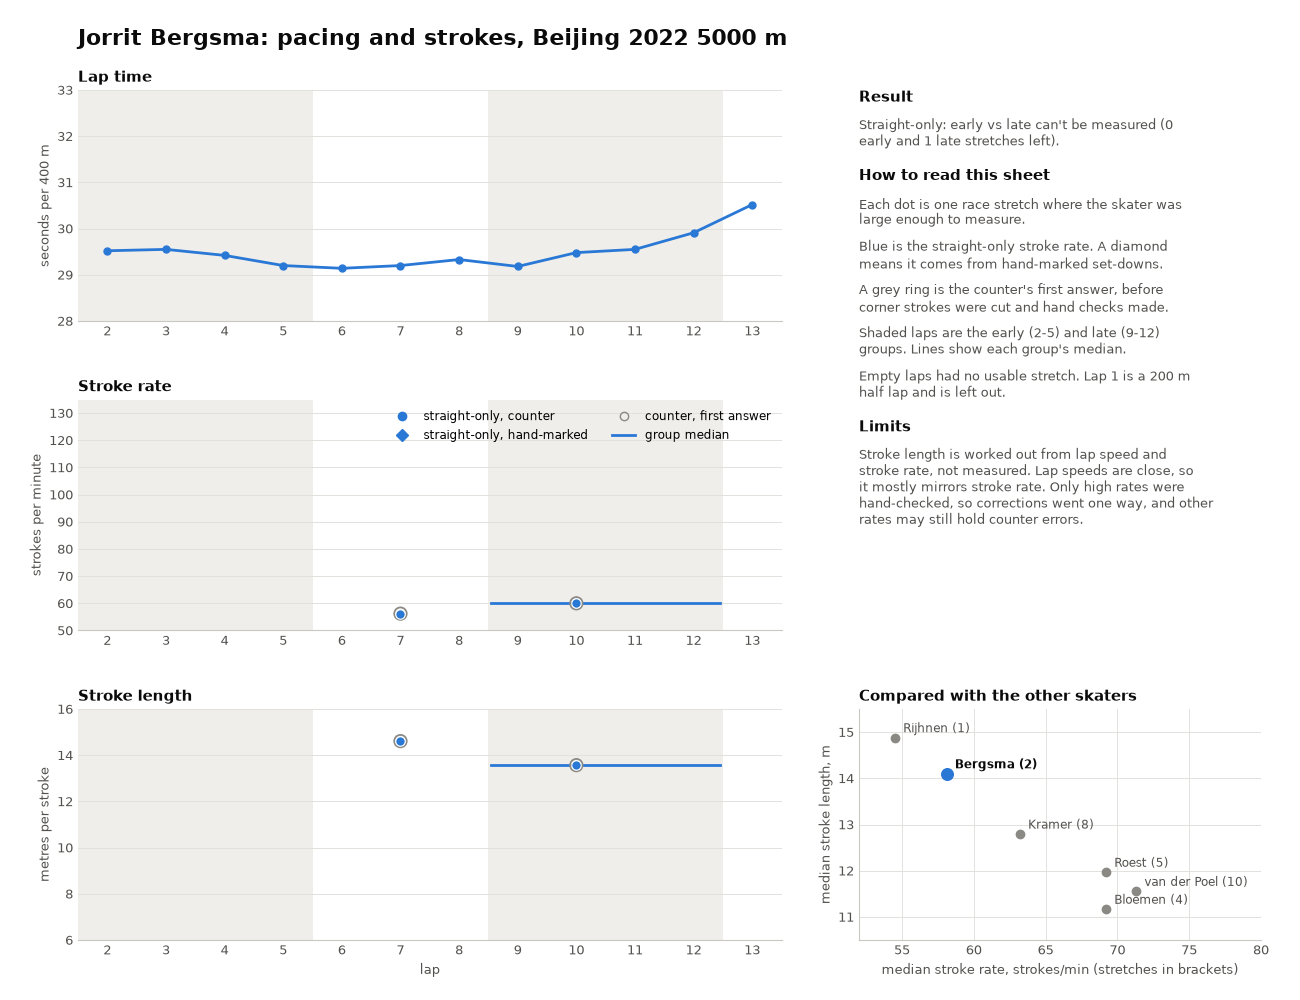
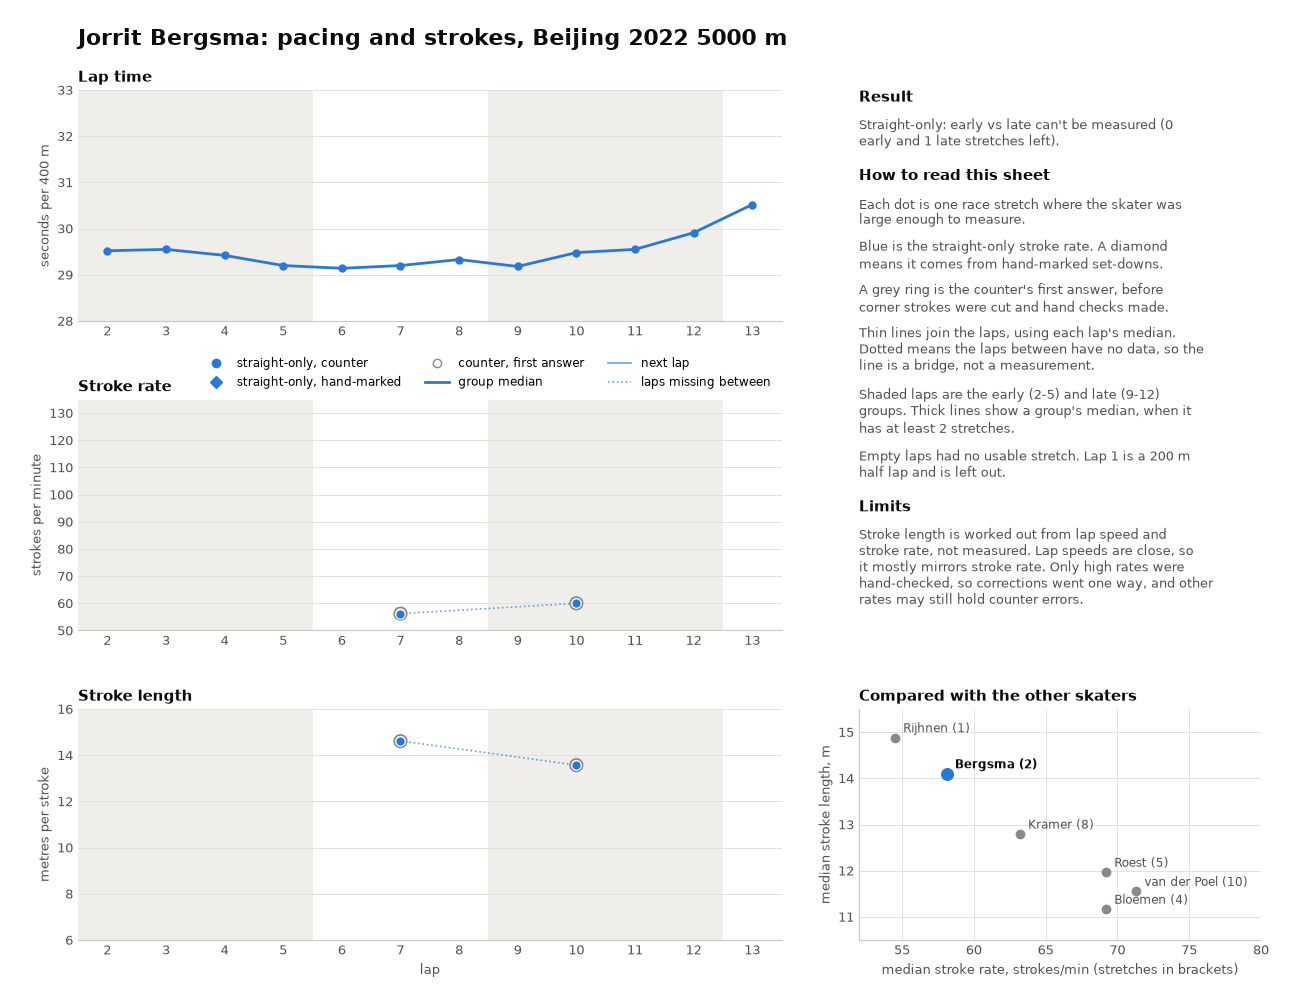
11/5: pacing sheets reviewed (laps joined, dotted across gaps), Phase 8 summary finished, Phase 8 complete; hours (120.0), journal, Phase 8 capabilities, README, milestones

diff --git a/pacing_sheets.py b/pacing_sheets.py
@@ -35,7 +35,8 @@ HOW_TO_READ = [
     "Each dot is one race stretch where the skater was large enough to measure.",
     "Blue is the straight-only stroke rate. A diamond means it comes from hand-marked set-downs.",
     "A grey ring is the counter's first answer, before corner strokes were cut and hand checks made.",
-    "Shaded laps are the early (2-5) and late (9-12) groups. Lines show each group's median.",
+    "Thin lines join the laps, using each lap's median. Dotted means the laps between have no data, so the line is a bridge, not a measurement.",
+    "Shaded laps are the early (2-5) and late (9-12) groups. Thick lines show a group's median, when it has at least 2 stretches.",
     "Empty laps had no usable stretch. Lap 1 is a 200 m half lap and is left out.",
 ]
 LIMITS = ("Stroke length is worked out from lap speed and stroke rate, not measured. Lap speeds are close, so it mostly "
@@ -59,7 +60,7 @@ def result_lines(s, skater):
     out = []
     if pd.notna(st.early_spm) and pd.notna(st.late_spm):
         word = "past" if st.rate_real else "not past"
-        out.append(f"Straight-only: {st.early_spm:.1f} to {st.late_spm:.1f} strokes/min ({st.rate_change:+.1%}), {word} the 10% bar. "
+        out.append(f"Straight-only: {st.early_spm + 1e-9:.1f} to {st.late_spm + 1e-9:.1f} strokes/min ({st.rate_change:+.1%}), {word} the 10% bar. "
                    f"Stroke length {st.len_change:+.1%}.")
     else:
         out.append("Straight-only: early vs late can't be measured "
@@ -73,8 +74,15 @@ def result_lines(s, skater):
 def group_medians(ax, d, col):
     for laps in (EARLY, LATE):
         g = d[d.lap.isin(laps)][col]
-        if len(g):
+        if len(g) >= 2:
             ax.plot([laps[0] - 0.45, laps[-1] + 0.45], [g.median()] * 2, color=MAIN, lw=2, zorder=2)
+
+
+def lap_line(ax, d, col):
+    """Lap medians joined: solid between neighbouring laps, dotted across laps with no data."""
+    m = d.groupby("lap")[col].median()
+    for (a, ya), (b, yb) in zip(m.items(), list(m.items())[1:]):
+        ax.plot([a, b], [ya, yb], color=MAIN, lw=1.2, alpha=0.7, ls="-" if b - a == 1 else ":", zorder=2)
 
 
 def base(ax, title, ylim, unit):
@@ -95,6 +103,7 @@ def strokes(ax, d, col, ring):
     for hand, marker in ((False, "o"), (True, "D")):
         g = d[d.hand == hand]
         ax.scatter(g.lap, g[col], s=46, marker=marker, color=MAIN, edgecolors="white", linewidths=0.8, zorder=4)
+    lap_line(ax, d, col)
     group_medians(ax, d, col)
 
 
@@ -118,8 +127,10 @@ def sheet(skater, r, laps, s, pos):
     ax.legend(handles=[Line2D([], [], marker="o", ls="", color=MAIN, label="straight-only, counter"),
                        Line2D([], [], marker="D", ls="", color=MAIN, label="straight-only, hand-marked"),
                        Line2D([], [], marker="o", ls="", mfc="none", mec=GREY, label="counter, first answer"),
-                       Line2D([], [], color=MAIN, lw=2, label="group median")],
-              loc="upper right", ncol=2, fontsize=8.5, frameon=False)
+                       Line2D([], [], color=MAIN, lw=2, label="group median"),
+                       Line2D([], [], color=MAIN, lw=1.2, alpha=0.7, label="next lap"),
+                       Line2D([], [], color=MAIN, lw=1.2, alpha=0.7, ls=":", label="laps missing between")],
+              loc="lower right", bbox_to_anchor=(1, 1), ncol=3, fontsize=8.5, frameon=False)
     ax = fig.add_subplot(gs[2, 0]); base(ax, "Stroke length", LEN_LIM, "metres per stroke")
     strokes(ax, d, "length", ring)
     ax.set_xlabel("lap", fontsize=9, color=MUTED)

diff --git a/README.md b/README.md
@@ -108,10 +108,11 @@ Controlled fixed-camera footage, multi-camera 3D and inline skating remain futur
 - **Visual comparison tool (7d):** `doublepush_compare.py` shows a skater's measured double push (where the recovering foot lands, how far the foot comes under the body, hip movement) beside an elite example, with plain-language explanations and coaching cues; the skater or coach makes the judgement. Summary in `docs/PHASE7_SUMMARY.md`.
 - Side track: controlled ice footage with a real fatigue measure. Full detail in `docs/CAPABILITIES_PHASE7.md`.
 
-### Phase 8: Stroke Rate & Pacing in Long Track Races (In Progress, 10/28–)
+### Phase 8: Stroke Rate & Pacing in Long Track Races (Complete, 10/28–11/5)
 > *To what extent can single-camera pose estimation count a long track skater's strokes reliably enough to measure stroke rate and stroke length lap by lap, and how do they change across a race and between faster and slower skaters?*
 
 - **Plan (10/28):** count strokes on whole-race broadcasts (Phase 6 pure pieces and corner/straight detection, Phase 7 touchdown signal), take speed from lap times (read from the broadcast race clock), and compare stroke rate and stroke length across laps and between skaters. Stroke-count test clips (21 Beijing 2022 straightaways, 10 held out by skater) marked by hand. Stroke counter (feet furthest apart sideways, `stroke_counter.py`) tested once: 84.2% of set-downs found within 0.1 s on normal-size test clips (target 85% not met, by one set-down); stroke counts matched on 6 of 7 clips; small skaters not countable reliably. Lap times for six skaters read from the broadcast's split graphic (78 laps, all checked). Stroke-rate rules fixed before any race results; all 133 race stretches labelled. Six-skater result (11/1): no general claim (stroke rate fell late for 3 skaters, rose for 2; 4 of 6 needed); Bloemen's fall past the 10% bar; hand checks found the counter double-counting on some stretches and corner-exit crossovers inside stretches labelled straight. A second analysis on straight strokes only (11/3, updated 11/4) left 3 skaters measurable, none past the bar, and did not confirm the earlier falls. Pacing sheets per skater in `reports/pacing/`. Full detail in `docs/CAPABILITIES_PHASE8.md`.
+- **Result (11/5):** the counter works on clean straightaway clips but cannot give trustworthy lap-by-lap stroke rates from race broadcasts without hand checking; no general claim about stroke rate across a race; lap times read from the broadcast held up well and show pacing clearly. Pacing sheets in `reports/pacing/`, summary in `docs/PHASE8_SUMMARY.md`.
 ---
 
 ## 📊 Verified Pipeline & Dashboard Capabilities
@@ -171,7 +172,7 @@ All tracking documents live in `docs/`:
 
 * **`JOURNAL.md`**, **`HOURS.md`**: daily engineering log and time tracking, with a 9/12 correction pass on earlier entries
 * **`CAPABILITIES_PHASE1.md`** through **`CAPABILITIES_PHASE8.md`**: verified capability logs per phase
-* **`PHASE1_SUMMARY.md`** through **`PHASE7_SUMMARY.md`**: honest, narrative research conclusions per phase
+* **`PHASE1_SUMMARY.md`** through **`PHASE8_SUMMARY.md`**: honest, narrative research conclusions per phase
 * **`MARKING_PLAYER.md`**: the hand-marking player (`mark_setdowns.py`): why it exists, how it works, keys and marking rules
 * **`MILESTONES.md`**: high-level milestone summary
 * **`FIXES.md`**: consolidated correction/retraction log

diff --git a/docs/README.md b/docs/README.md
@@ -108,10 +108,11 @@ Controlled fixed-camera footage, multi-camera 3D and inline skating remain futur
 - **Visual comparison tool (7d):** `doublepush_compare.py` shows a skater's measured double push (where the recovering foot lands, how far the foot comes under the body, hip movement) beside an elite example, with plain-language explanations and coaching cues; the skater or coach makes the judgement. Summary in `docs/PHASE7_SUMMARY.md`.
 - Side track: controlled ice footage with a real fatigue measure. Full detail in `docs/CAPABILITIES_PHASE7.md`.
 
-### Phase 8: Stroke Rate & Pacing in Long Track Races (In Progress, 10/28–)
+### Phase 8: Stroke Rate & Pacing in Long Track Races (Complete, 10/28–11/5)
 > *To what extent can single-camera pose estimation count a long track skater's strokes reliably enough to measure stroke rate and stroke length lap by lap, and how do they change across a race and between faster and slower skaters?*
 
 - **Plan (10/28):** count strokes on whole-race broadcasts (Phase 6 pure pieces and corner/straight detection, Phase 7 touchdown signal), take speed from lap times (read from the broadcast race clock), and compare stroke rate and stroke length across laps and between skaters. Stroke-count test clips (21 Beijing 2022 straightaways, 10 held out by skater) marked by hand. Stroke counter (feet furthest apart sideways, `stroke_counter.py`) tested once: 84.2% of set-downs found within 0.1 s on normal-size test clips (target 85% not met, by one set-down); stroke counts matched on 6 of 7 clips; small skaters not countable reliably. Lap times for six skaters read from the broadcast's split graphic (78 laps, all checked). Stroke-rate rules fixed before any race results; all 133 race stretches labelled. Six-skater result (11/1): no general claim (stroke rate fell late for 3 skaters, rose for 2; 4 of 6 needed); Bloemen's fall past the 10% bar; hand checks found the counter double-counting on some stretches and corner-exit crossovers inside stretches labelled straight. A second analysis on straight strokes only (11/3, updated 11/4) left 3 skaters measurable, none past the bar, and did not confirm the earlier falls. Pacing sheets per skater in `reports/pacing/`. Full detail in `docs/CAPABILITIES_PHASE8.md`.
+- **Result (11/5):** the counter works on clean straightaway clips but cannot give trustworthy lap-by-lap stroke rates from race broadcasts without hand checking; no general claim about stroke rate across a race; lap times read from the broadcast held up well and show pacing clearly. Pacing sheets in `reports/pacing/`, summary in `docs/PHASE8_SUMMARY.md`.
 ---
 
 ## 📊 Verified Pipeline & Dashboard Capabilities
@@ -171,7 +172,7 @@ All tracking documents live in `docs/`:
 
 * **`JOURNAL.md`**, **`HOURS.md`**: daily engineering log and time tracking, with a 9/12 correction pass on earlier entries
 * **`CAPABILITIES_PHASE1.md`** through **`CAPABILITIES_PHASE8.md`**: verified capability logs per phase
-* **`PHASE1_SUMMARY.md`** through **`PHASE7_SUMMARY.md`**: honest, narrative research conclusions per phase
+* **`PHASE1_SUMMARY.md`** through **`PHASE8_SUMMARY.md`**: honest, narrative research conclusions per phase
 * **`MARKING_PLAYER.md`**: the hand-marking player (`mark_setdowns.py`): why it exists, how it works, keys and marking rules
 * **`MILESTONES.md`**: high-level milestone summary
 * **`FIXES.md`**: consolidated correction/retraction log

diff --git a/docs/MILESTONES.md b/docs/MILESTONES.md
@@ -69,12 +69,14 @@
 * **Detection (7c):** three tests with a fixed 85% target: 77.8%, 72.2%, 60.9%; the best is about 3 in 4 on skaters it wasn't set on.
 * **Feedback (7d):** an automatic judge failed (missed real flaws, flagged elite style differences); a visual comparison tool with explanations and coaching cues was built instead.
 
-## Phase 8: Stroke Rate & Pacing in Long Track Races (In Progress, 10/28–)
+## Phase 8: Stroke Rate & Pacing in Long Track Races (Complete, 10/28–11/5)
 *Research Question: To what extent can single-camera pose estimation count a long track skater's strokes reliably enough to measure stroke rate and stroke length lap by lap, and how do they change across a race and between faster and slower skaters?*
 
 * **Plan (10/28):** stroke counting on race broadcasts, speed from lap times; stroke-count test clips made (21 Beijing 2022 straightaways, 10 held out by skater), target set before testing.
 * **Stroke counter (8c):** 84.2% of hand-marked set-downs found within 0.1 s on skaters it wasn't set on (target 85% not met, by one set-down); stroke counts matched on 6 of 7 clips.
 * **Lap times (8a):** read from the broadcast's split graphic for six skaters (78 laps, all checked); pacing ranges from even (van der Poel) to a large fade (Bloemen).
+* **Race stroke rates (8d):** no general claim under rules fixed beforehand; hand checks found counter over-counting and corner crossovers in the high rates; on straight strokes only, 3 skaters measurable, none past the 10% bar.
+* **Pacing sheets (8e):** lap time, stroke rate and stroke length by lap for each skater.
 
 ## 🎯 Where the Project Actually Stands (as of 10/7)
 * **Phase 1:** Completed. *Correction (10/7):* the saved Phase 1 model was later found collapsed (identical output for any input); see Phase 5.
@@ -84,4 +86,4 @@
 * **Phase 5:** Complete: elite reference well calibrated; late-race trunk-asymmetry lead found (8 of 9 skaters) but not confirmable on broadcast footage once camera shot is controlled; dashboard rebuilt on measured values. See `docs/PHASE5_SUMMARY.md`.
 * **Phase 6:** Complete: two skaters kept apart reliably enough to recover footage, but it is mostly front-on late in races; corner/straight detection 81.7%; 3D pose removes most of the camera effect and with it most of the Phase 5 fatigue lead. See `docs/PHASE6_SUMMARY.md`.
 * **Phase 7:** Complete: feet tracked on full-body footage (98%); double-push detection about 3 in 4 on other skaters (target 85% not met, three tests); automatic feedback not reliable; a visual comparison tool shows a skater's double push beside an elite example. See `docs/PHASE7_SUMMARY.md`.
-* **Phase 8:** In progress: stroke rate and pacing in long track races; stroke counter 84.2% (target 85% not met). See `docs/CAPABILITIES_PHASE8.md`.
+* **Phase 8:** Complete: stroke counter 84.2% on clean clips (target 85% not met), but not reliable on race broadcasts without hand checking; no general claim about stroke rate across a race; broadcast lap times held up well. See `docs/PHASE8_SUMMARY.md`.

diff --git a/docs/HOURS.md b/docs/HOURS.md
@@ -79,4 +79,5 @@
 | **11/1** | Labelled the last two skaters' race stretches (Bergsma, Rijhnen; all 133 labelled) and ran the six-skater stroke-rate comparison under the rules fixed beforehand: no general claim (3 skaters slower late, 2 faster; 4 of 6 needed), Bloemen the only skater past the 10% bar with the counter alone. Hand-checked five stretches with implausibly high rates (added after seeing the result): two were the counter double-counting, and three included corner-exit crossovers that the thumbnail labels had called straightaway, an error source the 8c test never measured. With the hand checks, van der Poel also passes the bar (-11%), reported as not settled. | 1.0 hr |
 | **11/3** | Ran a second stroke-rate analysis on straight strokes only, with its rules fixed first: marked where each of the 37 race stretches with a rate is really straight (lap hidden, clips shuffled), using a new mode of the marking player. 14 stretches had corner frames cut, nearly all at the start. All rates above 100 strokes/min disappeared. Only three skaters stayed measurable (Kramer +9.3%, Roest +8.9%, van der Poel +6.2%), none past the 10% bar, so there is still no general claim; the earlier falls for Bloemen and van der Poel were not confirmed. | 0.5 hrs |
 | **11/4** | Hand-checked the last two high stroke rates (van der Poel 90/min was really 64, Bloemen 86/min was really 62): the counter over-counted on 4 of 7 checked stretches, and van der Poel's straight-only change went to 0.0%. Built the 8e pacing sheets (lap time, stroke rate and stroke length by lap for each skater, with a comparison across the six) and noted that stroke length mostly mirrors stroke rate because it is worked out from lap speed. Drafted the Phase 8 summary. | 0.5 hrs |
-| **Total** | **Cumulative Engineering Time** | **119.0 hrs** |
+| **11/5** | Reviewed the 8e pacing sheets and improved them (laps now joined by a line, dotted where laps between have no data; a group median needs at least 2 stretches). Considered reading the opponents' lap times for pair comparisons and left it as future work. Finished the Phase 8 summary: the counter works on clean straightaway clips but cannot give trustworthy lap-by-lap stroke rates from race broadcasts without hand checking; lap times from the broadcast held up well. Phase 8 complete. | 1.0 hr |
+| **Total** | **Cumulative Engineering Time** | **120.0 hrs** |

diff --git a/docs/CAPABILITIES_PHASE8.md b/docs/CAPABILITIES_PHASE8.md
@@ -11,7 +11,7 @@
 > length lap by lap**, and how do they change across a race and between
 > faster and slower skaters?
 
-## Status (11/4): 8b hand marks done (21 clips). 8c stroke counter tested once: 84.2% of set-downs found within 0.1 s on normal-size test clips (target 85% not met, by one set-down; extras 10.5%, within the limit); small skaters 50%. 8a lap times read from the broadcast for six skaters (78 laps, checked). 8d done: all 133 race stretches labelled; no general claim (3 of 6 skaters slower late, 2 faster); Bloemen past the 10% bar; corner-exit crossovers found inside "straight" stretches. Second analysis on straight strokes only: 3 skaters measurable, none past the bar; still no general claim. 8e pacing sheets built; 8f summary drafted; both awaiting review.
+## Status (11/5): ✅ PHASE 8 COMPLETE. 8b hand marks done (21 clips). 8c stroke counter tested once: 84.2% of set-downs found within 0.1 s on normal-size test clips (target 85% not met, by one set-down; extras 10.5%, within the limit); small skaters 50%. 8a lap times read from the broadcast for six skaters (78 laps, checked). 8d done: all 133 race stretches labelled; no general claim (3 of 6 skaters slower late, 2 faster); Bloemen past the 10% bar; corner-exit crossovers found inside "straight" stretches. Second analysis on straight strokes only: 3 skaters measurable, none past the bar; still no general claim. 8e pacing sheets built and reviewed; 8f summary in `docs/PHASE8_SUMMARY.md`.
 
 ## Why This Phase
 
@@ -275,11 +275,12 @@ counter over-counting and three included corner crossovers. Current numbers:
   and stroke length lap by lap, with a "how to read this sheet" box and
   comparison to the other skater in the pair.
 - Built 11/4 (`pacing_sheets.py`, `reports/pacing/`). Opponents have no lap
-  times, so the comparison is across the six skaters. Awaiting review.
+  times, so the comparison is across the six skaters. Reviewed 11/5: laps
+  joined by a line, dotted where the laps between have no data.
 
 ### 8f: Evaluation & Write-Up
-- `PHASE8_SUMMARY.md`: what was tested, what held up, what didn't. Drafted
-  11/4, not yet reviewed.
+- `PHASE8_SUMMARY.md`: what was tested, what held up, what didn't. Finished
+  11/5.
 
 ## Tier 2: If Time Allows
 - **Shorter distances** (1000 m, 1500 m): more stroke-rate change per lap,

diff --git a/docs/JOURNAL.md b/docs/JOURNAL.md
@@ -1203,3 +1203,15 @@
   - The earlier contrast between van der Poel (about 80/min) and Roest (66-71/min) did not survive the corrections: straight-only medians are 71 and 69.
 
 - **Result:** straight-only early to late: Kramer +9.3%, Roest +8.9%, van der Poel 0.0%; Bloemen, Bergsma and Rijhnen can't be measured. No general claim and no skater past the 10% bar. Pacing sheets built, awaiting review. Next: review the sheets and the summary draft.
+
+## 11/5: Pacing Sheets Reviewed; Phase 8 Complete
+
+- **Action Taken:**
+  - Reviewed the pacing sheets. Stroke rate and length had only separate dots, so the laps looked unconnected. Added thin lines joining the lap medians, solid between neighbouring laps and dotted where the laps between have no data; a group median now needs at least 2 stretches; the legend moved above the chart. The points were checked against the data and were correct.
+  - Finished `docs/PHASE8_SUMMARY.md`.
+
+- **Problems, Challenges & Decisions:**
+  - The joined lines showed van der Poel's rate swinging from 61 to 82 strokes/min while lap times stayed almost flat, so some of the remaining variation is probably measurement noise. Added to the limitations.
+  - Reading the opponents' lap times was considered: it would add pair comparisons and six more skaters' pacing, but their stroke rates would meet the same limits. Left as future work.
+
+- **Result:** Phase 8 complete. The counter nearly met its target on clean clips (84.2%, target 85%) but cannot give trustworthy lap-by-lap stroke rates from race broadcasts without hand checking. No general claim about stroke rate across a race; questions 2 and 3 not answered. Lap times read from the broadcast held up well and show pacing clearly.

diff --git a/docs/PHASE8_SUMMARY.md b/docs/PHASE8_SUMMARY.md
@@ -1,7 +1,8 @@
 # Phase 8 Summary & Conclusion
 
-> **Draft 11/4, not yet reviewed.** Numbers are taken from the analysis
-> outputs and `docs/CAPABILITIES_PHASE8.md`.
+> **Finished 11/5. Phase 8 complete.** Numbers are taken from the analysis
+> outputs and `docs/CAPABILITIES_PHASE8.md`. Opponents' lap times were not
+> read and stay future work.
 
 ## The Question
 To what extent can single-camera pose estimation count a long track skater's
@@ -98,6 +99,9 @@ Roest about 66-71) did not survive the corrections.
 - Hand checks went only to high rates, so corrections went one way. Lower rates
   were never checked and may hold counter errors, including missed set-downs.
 - Early vs late rests on 2-3 stretches per skater even where it can be measured.
+- Rates still swing from lap to lap (van der Poel 61 to 82 strokes/min) while
+  that skater's lap times are almost flat, so some of what remains is probably
+  measurement noise.
 - The second analysis was added after seeing the first result.
 - Stroke length uses the whole lap's speed with a straightaway stroke rate, and
   lap speeds are close, so it mostly mirrors stroke rate.

diff --git a/docs/REPOSITORYSTRUCTURE.md b/docs/REPOSITORYSTRUCTURE.md
@@ -83,8 +83,8 @@
 
 ## `docs/`
 - `JOURNAL.md`, `HOURS.md`: daily log and time tracking
-- `CAPABILITIES_PHASE1.md` through `CAPABILITIES_PHASE6.md`: verified per-phase capability logs
-- `PHASE1_SUMMARY.md` through `PHASE5_SUMMARY.md`: honest narrative research conclusions per phase
+- `CAPABILITIES_PHASE1.md` through `CAPABILITIES_PHASE8.md`: verified per-phase capability logs
+- `PHASE1_SUMMARY.md` through `PHASE8_SUMMARY.md`: honest narrative research conclusions per phase
 - `MILESTONES.md`: high-level milestone summary
 - `FIXES.md`: consolidated correction/retraction log
 - `DEMONSTRATION.md`: setup and usage guide
